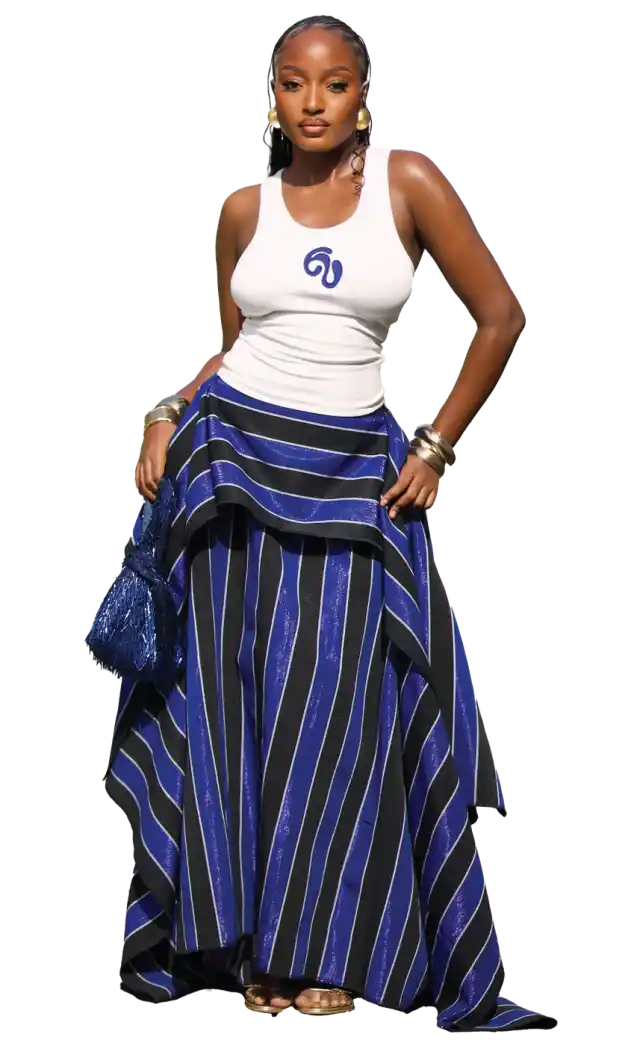
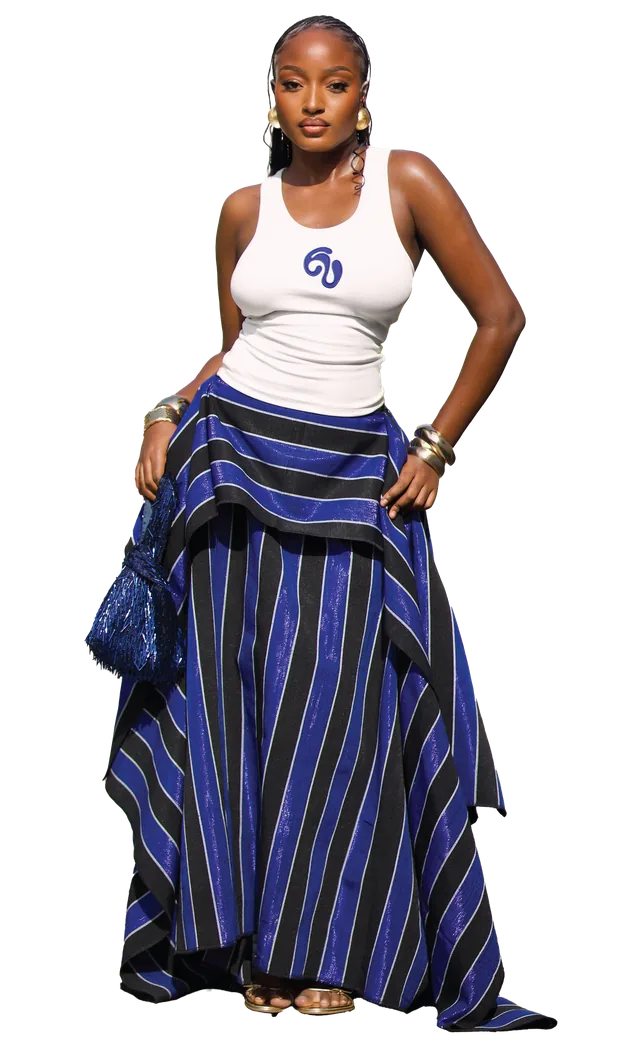
fix(landing): photo portrait du hero nette sur téléphone
La seule version (640 px, très compressée) était agrandie sur les écrans
haute densité : flou et bruit. Versions 640, 960 et 1242 px régénérées
depuis l'original (qualité 80-82) et servies par srcset/sizes : le
téléphone charge la taille dont il a besoin.

diff --git a/frontend/src/components/landing/HeroFace.vue b/frontend/src/components/landing/HeroFace.vue
@@ -5,6 +5,12 @@ import { ArrowRight } from 'lucide-vue-next'
 import heroLandscape from '@/assets/images/hero-section/full-shot-woman-posing-chair.webp'
 import LargeScreenImage from '@/components/auth/LargeScreenImage.vue'
 import heroPortrait from '@/assets/images/hero-section/photo-1.webp'
+import heroPortrait960 from '@/assets/images/hero-section/photo-1-960.webp'
+import heroPortrait1242 from '@/assets/images/hero-section/photo-1-1242.webp'
+
+// Photo portrait affichée en object-cover : sur téléphone (DPR 2 à 3), la boîte de
+// 320 px demande 640 à 960 px de large ; une seule version 640 px y était agrandie (floue).
+const heroPortraitSrcset = `${heroPortrait} 640w, ${heroPortrait960} 960w, ${heroPortrait1242} 1242w`
 
 // --- Hero Text Cycling Animation ---
 const words = ['film', 'série télévisée', 'vidéo publicitaire', 'clip musical']
@@ -74,6 +80,8 @@ onUnmounted(() => {
           <div class="lg:hidden flex justify-center px-4 sm:px-6 md:px-0 mt-4 md:mt-0">
             <img
               :src="heroPortrait"
+              :srcset="heroPortraitSrcset"
+              sizes="(min-width: 768px) 50vw, 320px"
               alt="Femme souriante en studio"
               width="640"
               height="1046"
@@ -90,8 +98,11 @@ onUnmounted(() => {
               alt="Femme posant sur une chaise"
               class="w-full rounded-2xl object-cover"
             />
+            <!-- Boîte 208 × 512 px en object-cover : l'image s'affiche sur ~314 px de large. -->
             <img
               :src="heroPortrait"
+              :srcset="heroPortraitSrcset"
+              sizes="314px"
               alt="Femme souriante en studio"
               width="640"
               height="1046"

diff --git a/frontend/src/components/landing/__tests__/HeroFace.lcp.spec.ts b/frontend/src/components/landing/__tests__/HeroFace.lcp.spec.ts
@@ -15,4 +15,21 @@ describe('HeroFace - image LCP', () => {
     expect(img.attributes('height')).toBe('1046')
     expect(img.attributes('loading')).toBe('eager')
   })
+
+  it('propose des versions 960 et 1242 px pour les écrans haute densité', () => {
+    const wrapper = mount(HeroFace, {
+      global: { stubs: { RouterLink: { template: '<a><slot /></a>' } } },
+    })
+
+    const portraits = wrapper.findAll('[data-testid="hero-images"] img[alt="Femme souriante en studio"]')
+    expect(portraits).toHaveLength(2)
+
+    for (const img of portraits) {
+      const srcset = img.attributes('srcset') ?? ''
+      expect(srcset).toContain('640w')
+      expect(srcset).toContain('960w')
+      expect(srcset).toContain('1242w')
+      expect(img.attributes('sizes')).toBeTruthy()
+    }
+  })
 })
